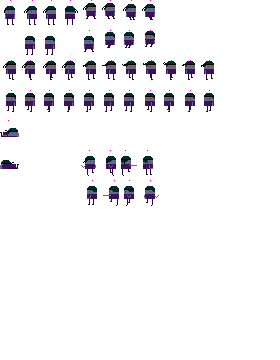
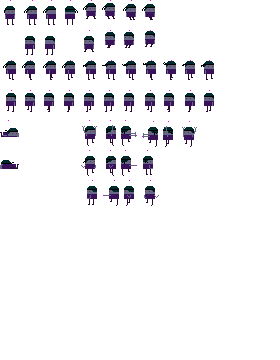
Some animations tuning

diff --git a/actors_description.py b/actors_description.py
@@ -262,8 +262,7 @@ demon_1 = {
         },
         'cast right': {
             'repeat': False, 'interruptable': True,
-            'sequence': (74, 74, 74, 74, 74,  # 0 - 4
-                         74, 74, 74, 74, 75, 75),  # 5 - 9
+            'sequence': (60,60,60,60,60,60,61,62,62,62,62),  # 5 - 9
             # 74,74,74,74,74,  # 5 - 9
             # 74,74,74,75,75,  # 10 - 14
             # 74,74,74,74,74,  # 15 - 19
@@ -272,21 +271,16 @@ demon_1 = {
             # 'demolisher offset': (46, 36),
             'speed': 2,
             'activity at frames': {
-                9: {
+                7: {
                     'sound': True,
                     'demolisher': True
                 },
-            },
-            'demolisher offset': {
-                1: (46, 36),
-                -1: (-46, 36),
             },
             'repeat from frame': 0
         },
         'cast left': {
             'repeat': False, 'interruptable': True,
-            'sequence': (89,89,89,89,89,89,  # 0 - 4
-                         89,89,89,89,88,88),  # 5 - 9
+            'sequence': (65,65,65,65,65,65,64,63,63,63,63),  # 5 - 9
             # 74,74,74,74,74,  # 5 - 9
             # 74,74,74,75,75,  # 10 - 14
             # 74,74,74,74,74,  # 15 - 19
@@ -295,14 +289,10 @@ demon_1 = {
             # 'demolisher offset': (46, 36),
             'speed': 3,
             'activity at frames': {
-                9: {
+                7: {
                     'sound': True,
                     'demolisher': True
                 },
-            },
-            'demolisher offset': {
-                1: (46, 36),
-                -1: (-46, 36),
             },
             'repeat from frame': 0
         },
@@ -713,7 +703,7 @@ player_jake = {
     # },
     'gravity affected': True,
     'mana replenish': 1.,
-    'stamina replenish': 1.,
+    'stamina replenish': 1.5,
     'body': {
         'head': {
             'hardness': 100
